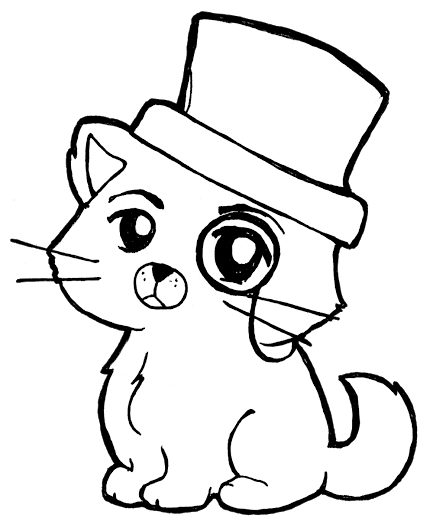
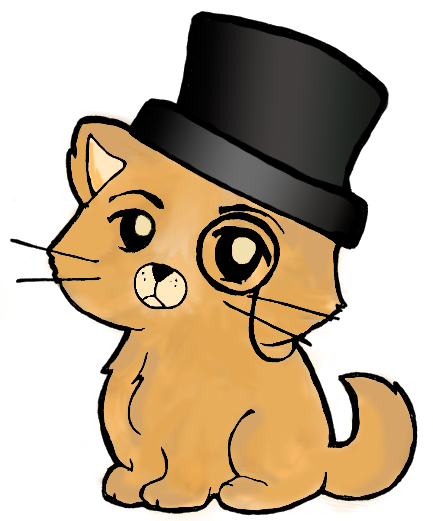
started coloring the characters - cat

diff --git a/css/style.css b/css/style.css
@@ -5,6 +5,9 @@ html, body {
 	height: 100%;
 	width: 100%;
 }
+::-webkit-scrollbar { 
+    display: none; 
+}
 h1, h2, h3{
 	font-family: 'Playfair Display', serif !important;
 	font-style: italic;
